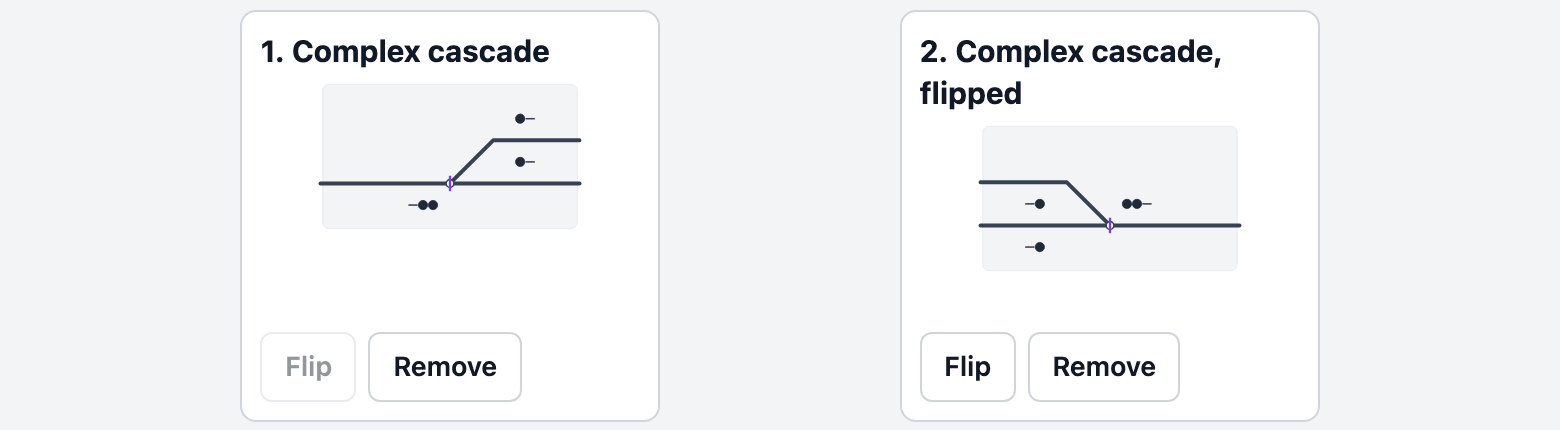
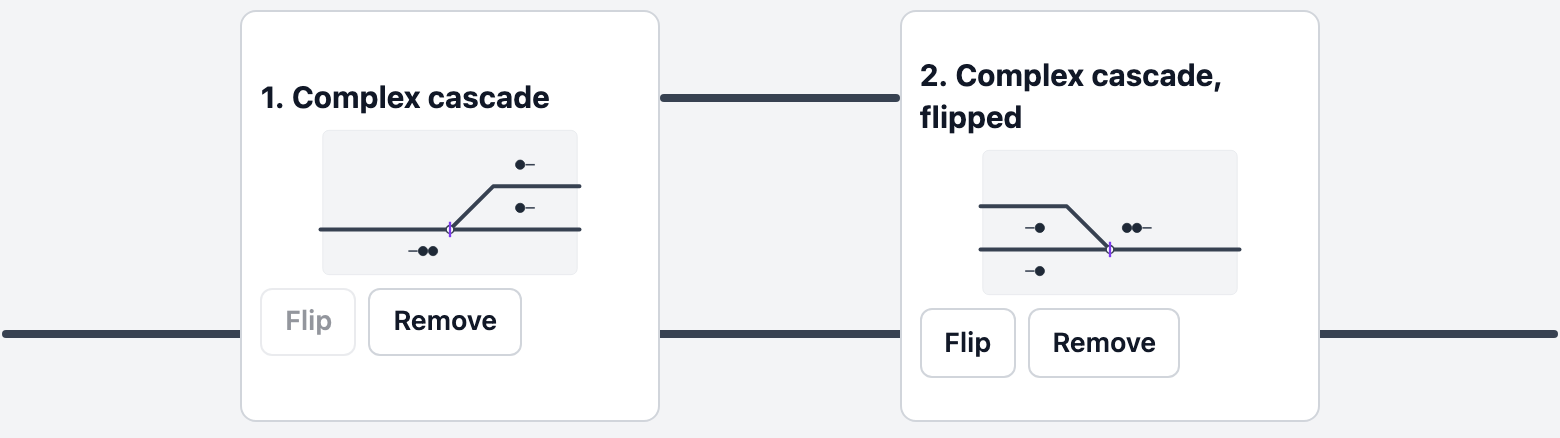
MSS Logic: the module's lines drawn as tracks on Pick your module.
With boards on the main line and the loop, the module grid showed each
line only as loose bars in the gaps, a Complex cascade as a tall card with
its contents at its top and bottom, and a long module widened the whole
panel past the page.

Each line is now one track behind its boards, from end A (or just after
the Complex cascade that splits it off) to end B (or just before the one
that joins it). A board sits centred on its line, and a Complex cascade
fills the height of both its lines with its contents in the middle, so
both lines run into its sides. A long module scrolls sideways on its own.
With WS2812B ticked, running short of pins no longer says to use WS2812B.

diff --git a/configurator/logic-ui-mss-page.js b/configurator/logic-ui-mss-page.js
@@ -90,6 +90,7 @@
     mastsStrip: (names, pins) => `Signals: ${names}, each head one WS2812B LED, each signal on its own data pin (${pins} pins in all).`,
     kept: (names) => `Already on this board, and used as they are: ${names}.`,
     useStrip: "Use one WS2812B LED for each head instead (one data pin for each signal)",
+    shortOfPinsStrip: (need, safe) => `This board has ${safe} free pin${safe === 1 ? "" : "s"} that ${safe === 1 ? "is" : "are"} safe for a data pin once the sensors are on theirs, and these signals need ${need}, one for each signal. Remove what this board does not need first, or make the module smaller.`,
     shortOfPins: (need, safe) => `This board has ${safe} free pin${safe === 1 ? "" : "s"} that ${safe === 1 ? "is" : "are"} safe for an LED once the sensors are on theirs, and these signals need ${need}. Use WS2812B LEDs, or remove what this board does not need first.`,
     cancel: "Cancel",
     yourModule: "Your module",
@@ -458,7 +459,7 @@
       strip.querySelector("input")?.setAttribute("id", "logic-mss-strip");
       box.append(strip);
       const safe = Math.max(0, (ctx.safeOutputPins?.() ?? Infinity) - want.sensors.length);
-      if (want.pins > safe) box.append(el("p", "mss-warning", TEXT.shortOfPins(want.pins, safe)));
+      if (want.pins > safe) box.append(el("p", "mss-warning", (style === "strip" ? TEXT.shortOfPinsStrip : TEXT.shortOfPins)(want.pins, safe)));
     }
     return want;
   }
@@ -682,6 +683,23 @@
       });
       return z;
     };
+    // Each line as one track behind the boards, from where it starts (end A,
+    // or the Complex cascade that splits it off) to where it ends (end B, or
+    // the Complex cascade that joins it), so the boards sit on their lines.
+    if (row.length) {
+      const last = 2 * row.length + 1;
+      for (const laneId of w.order) {
+        const from = w.steps.find((st) => st.out.includes(laneId) && !st.inputs.some((x) => x.lane === laneId));
+        const to = w.steps.find((st) => st.inputs.some((x) => x.lane === laneId) && !st.out.includes(laneId));
+        // A line split off starts just after its Complex cascade, and one joined ends just before it.
+        const start = w.left.includes(laneId) || !from ? 1 : 2 * from.index + 3;
+        const end = w.right.includes(laneId) || !to ? last : 2 * to.index + 1;
+        const track = el("div", "mss-line");
+        track.style.gridColumn = `${start} / ${end + 1}`;
+        track.style.gridRow = String(lineRow(laneId));
+        lane.append(track);
+      }
+    }
     // The gaps: each line there, and each pair of neighbouring lines to join.
     for (let at = 0; at <= row.length; at += 1) {
       const lanesHere = R().walk(row.slice(0, at)).right;
@@ -700,8 +718,6 @@
       // The lines it is on: its own, and for a Complex cascade the other it splits into or joins.
       const mine = [...step.inputs.map((x) => x.lane), ...step.out];
       const rows = mine.map(lineRow);
-      // The lines carrying past it.
-      for (const laneId of R().walk(row.slice(0, i)).right) if (!mine.includes(laneId)) place(el("div", "mss-pass"), column, lineRow(laneId));
       const card = el("div", "mss-board-card");
       card.dataset.board = String(i);
       card.draggable = true;
@@ -724,6 +740,8 @@
       if (remove.disabled) remove.title = TEXT.cannotRemove;
       actions.append(remove);
       card.append(actions);
+      // A Complex cascade fills the height of both its lines, so each runs into its side.
+      if (rows.length > 1) card.classList.add("is-two-lines");
       place(card, column, Math.min(...rows), Math.max(...rows));
     }
     canvas.append(lane);

diff --git a/configurator/styles.css b/configurator/styles.css
@@ -2779,6 +2779,7 @@ button.clear-page {
 /* Pick your module: drag MSS boards from the palette into the module. */
 .mss-builder {
   display: grid;
+  grid-template-columns: minmax(0, 1fr);
   gap: 1rem;
 }
 
@@ -2894,19 +2895,44 @@ button.clear-page {
   background: var(--accent-soft);
 }
 
-/* The module as a grid of lines (logic-ui-mss-page.js). */
+/* The module as a grid of lines (logic-ui-mss-page.js). A long module
+   scrolls sideways on its own; the page stays its width. */
 .mss-row-cards.is-grid {
   display: grid;
   gap: 0;
   align-items: stretch;
+  overflow-x: auto;
+  padding-bottom: 4px;
 }
 
 .mss-row-cards.is-grid .mss-board-card {
+  position: relative;
   width: auto;
   margin: 4px 0;
+  align-self: center;
+}
+
+.mss-row-cards.is-grid .mss-board-card.is-two-lines {
+  align-self: stretch;
+  justify-content: center;
+}
+
+.mss-row-cards.is-grid .mss-board-card.is-two-lines .mss-board-actions {
+  margin-top: 0;
+}
+
+/* A line of the module: one track behind the boards on it, which sit
+   centred on it (a Complex cascade between its two lines). */
+.mss-line {
+  align-self: center;
+  height: 4px;
+  background: #374151;
+  border-radius: 2px;
+  pointer-events: none;
 }
 
 .mss-row-cards.is-grid .mss-drop {
+  position: relative;
   width: 14px;
   margin: 4px 2px;
 }
@@ -2914,13 +2940,6 @@ button.clear-page {
 .mss-row-cards.is-grid .mss-drop.is-empty {
   width: auto;
   min-width: 320px;
-}
-
-.mss-pass {
-  align-self: center;
-  height: 4px;
-  background: #374151;
-  border-radius: 2px;
 }
 
 .mss-drop.is-join {
